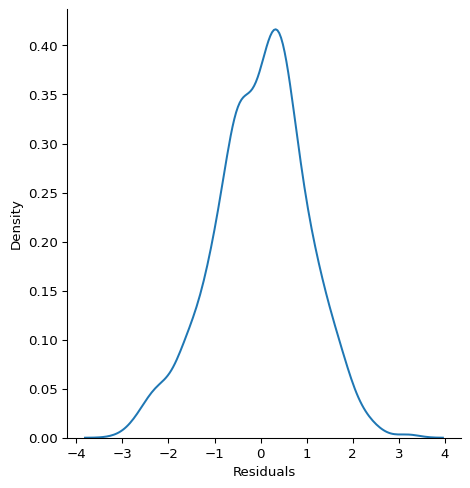
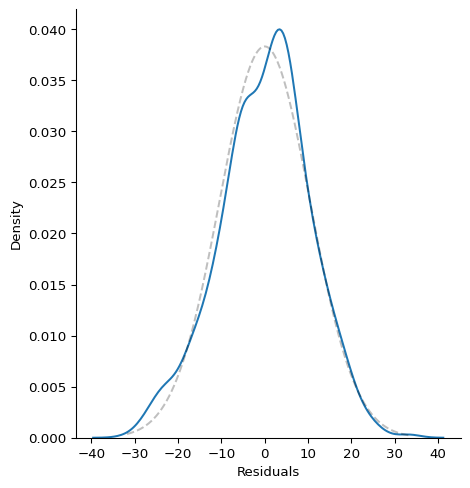
python trabalho

diff --git a/P6/python/trabalho/rekekssion/rekekssion.py b/P6/python/trabalho/rekekssion/rekekssion.py
@@ -12,7 +12,7 @@ class Rekekssion:
         n, p,
         Y, X, C, H, B, R, P,
     ):
-        self.intercept = intercept,
+        self.intercept = intercept
         self.y = y # y name
         self.x = x # x names
         self.n = n # nº rows
@@ -27,8 +27,7 @@ class Rekekssion:
 
     def __repr__(self):
         eq = f"{self.y} = {self.B[0]:.3}"
-        # intercept is somehow a tuple
-        if not self.intercept[0]:
+        if not self.intercept:
             eq += f" {self.x[0]}"
         for i in range(len(self.B)):
             if i == 0:
@@ -112,18 +111,21 @@ class Rekekssion:
         print(
             f"\t{'':<{biggest_length}}",
             f"{'estimate':>10}",
-            f"{f'IC {50 * alpha}%':>10}",
-            f"{f'IC {100 - 50 * alpha}%':>10}",
+            f"{'std err':>10}",
+            f"{f'IC {50 * alpha:g}%':>10}",
+            f"{f'IC {100 - 50 * alpha:g}%':>10}",
             f"{'statistic':>10}",
             f"{'p-value':>10}",
             sep = "",
         )
+        stderr = numpy.sqrt(self._beta_var())
         ic = self._beta_ic(alpha)
         tstat = self._tstat()
         tpval = self._tpval()
         for i in range(len(self.B)):
             line = f"\t{self.x[i]:<{biggest_length}}"
             line += f"{self.B[i]:>10.3f}"
+            line += f"{stderr[i]:>10.3f}"
             line += f"{ic[0][i]:>10.3f}"
             line += f"{ic[1][i]:>10.3f}"
             line += f"{tstat[i]:>10.3f}"
@@ -142,7 +144,7 @@ class Rekekssion:
     def coefficients(self):
         return self.B
 
-    def fitted(self):
+    def estimated(self):
         return self.P
 
     def residuals(self, kind: str = "response"):
@@ -160,8 +162,7 @@ class Rekekssion:
 
     def predict(self, new_data: pandas.DataFrame):
         X = new_data.to_numpy()
-        # # intercept is somehow a tuple
-        if self.intercept[0]:
+        if self.intercept:
             X = numpy.insert(X, 0, 1, axis = 1)
         return X @ self.B
 
@@ -175,36 +176,58 @@ class Rekekssion:
         )
         return seaborn.relplot(x = x, y = r, linewidth = 0.1, **kwargs) \
             .set_axis_labels("Theoretical quantiles", "Residual quantiles") \
-            .ax.axline(xy1 = (0, 0), slope = 1, color = "#00000040")
+            .ax.axline(
+                xy1 = (0, 0), slope = 1,
+                color = "#00000040", dashes = (4, 2)
+            )
 
     def plot_normality(self, kind: str, **kwargs):
         r = self.residuals(kind)
-        return seaborn.displot(x = r, kind = "kde", **kwargs) \
+        seaborn.displot(x = r, kind = "kde", **kwargs) \
             .set_axis_labels("Residuals")
+        x = numpy.linspace(numpy.min(r), numpy.max(r), 1000)
+        y = scipy.stats.norm.pdf(
+            x,
+            loc = numpy.mean(r),
+            scale = numpy.sqrt(numpy.var(r))
+        )
+        seaborn.lineplot(x = x, y = y, color = "#00000040", linestyle = "--")
 
     def plot_linearity(self, **kwargs):
         return seaborn.relplot(x = self.Y, y = self.P, **kwargs) \
             .set_axis_labels("Observed values", "Estimated values") \
-            .ax.axline(xy1 = (0, 0), slope = 1, color = "#00000040")
+            .ax.axline(
+                xy1 = (0, 0), slope = 1,
+                color = "#00000040", dashes = (4, 2)
+            )
 
     def plot_homoscedasticity(self, kind: str, **kwargs):
         r = self.residuals(kind)
         return seaborn.relplot(x = self.P, y = r, **kwargs) \
             .set_axis_labels("Estimated values", "Residuals") \
-            .ax.axline(xy1 = (0, 0), slope = 0, color = "#00000040")
+            .ax.axline(
+                xy1 = (0, 0), slope = 0,
+                color = "#00000040", dashes = (4, 2)
+            )
 
     def plot_autocorrelation(self, kind: str, **kwargs):
         r = self.residuals(kind)
         return seaborn.relplot(x = range(self.n), y = r, **kwargs) \
             .set_axis_labels("Index", "Residuals") \
-            .ax.axline(xy1 = (0, 0), slope = 0, color = "#00000040")
+            .ax.axline(
+                xy1 = (0, 0), slope = 0,
+                color = "#00000040", dashes = (4, 2)
+            )
 
     def plot_detect_hat(self, **kwargs):
         h = numpy.diag(self.H)
         limit = 2 * self.p / self.n
         return seaborn.relplot(x = self.P, y = h, **kwargs) \
             .set_axis_labels("Estimated values", "Hat values") \
-            .ax.axline(xy1 = (0, limit), slope = 0, color = "#00000040")
+            .ax.axline(
+                xy1 = (0, limit), slope = 0,
+                color = "#00000040", dashes = (4, 2)
+            )
 
     def plot_detect_cook(self, **kwargs):
         h = numpy.diag(self.H)
@@ -213,9 +236,12 @@ class Rekekssion:
         limit = scipy.stats.f.ppf(0.5, self.p, self.n - self.p)
         return seaborn.relplot(x = self.P, y = cook, **kwargs) \
             .set_axis_labels("Estimated values", "Cook's distance") \
-            .ax.axline(xy1 = (0, limit), slope = 0, color = "#00000040")
+            .ax.axline(
+                xy1 = (0, limit), slope = 0,
+                color = "#00000040", dashes = (4, 2)
+            )
 
-    def plot(self, kind: str, **kwargs):
+    def plot(self, kind: str = "response", **kwargs):
         self.plot_qq(kind, **kwargs)
         self.plot_normality(kind, **kwargs)
         self.plot_linearity(**kwargs)
@@ -228,7 +254,7 @@ def fit(
     data: pandas.DataFrame,
     y: str,
     x: typing.List[str],
-    intercept: bool
+    intercept: bool = True,
 ) -> Rekekssion:
     Y = data[y].to_numpy()
     X = data[x].to_numpy()

diff --git a/P6/python/trabalho/README.md b/P6/python/trabalho/README.md
@@ -1,4 +1,20 @@
+# Rekekssion
 
+
+The linear regression package for the lazy:
+
+- create a linear model with `rekekssion.fit()`
+- get all the info you need with the `.summary()` method
+- plot model suppositions and diagnostics with `.plot()`:
+  - **normality**: residual’s qq and density plots
+  - **linearity**: observed vs estimated values
+  - **homoscedasticity**: estimated values vs residuals
+  - **autocorrelation**: index vs residuals
+  - **leverage**: estimated values vs hat values
+  - **influence**: estimated values vs cook’s distance
+- extract specific info with `.coefficients()`, `.estimated()`
+  `.residuals()` if you’re into that
+- evaluate new data with `.predict()`
 
 ``` python
 import rekekssion
@@ -10,19 +26,19 @@ model = rekekssion.fit(
     intercept = True,
 )
 
-model.summary()
+model.summary(alpha = 0.05)
 ```
 
     formula:
         compressive_strength = 34.8 + 0.11 cement - 0.255 water + 0.0924 blast_furnace_slag + 0.0796 fly_ash + 0.114 age
     coefficients:
-                            estimate   IC 2.5%  IC 97.5% statistic   p-value
-        (intercept)           34.826    27.581    42.071     9.433   1.3e-20
-        cement                 0.110     0.102     0.118    27.974  1.1e-128
-        water                 -0.255    -0.288    -0.222   -15.243  9.73e-48
-        blast_furnace_slag     0.092     0.083     0.101    20.361     6e-78
-        fly_ash                0.080     0.066     0.093    11.836  1.09e-30
-        age                    0.114     0.103     0.125    21.025  3.63e-82
+                            estimate   std err   IC 2.5%  IC 97.5% statistic   p-value
+        (intercept)           34.826     3.692    27.581    42.071     9.433   1.3e-20
+        cement                 0.110     0.004     0.102     0.118    27.974  1.1e-128
+        water                 -0.255     0.017    -0.288    -0.222   -15.243  9.73e-48
+        blast_furnace_slag     0.092     0.005     0.083     0.101    20.361     6e-78
+        fly_ash                0.080     0.007     0.066     0.093    11.836  1.09e-30
+        age                    0.114     0.005     0.103     0.125    21.025  3.63e-82
     metrics:
         R squared                   0.611
         adjusted R squared          0.609
@@ -34,8 +50,8 @@ model.summary()
 
 ``` python
 model.coefficients()
-model.fitted()
-model.residuals(kind = "response")
+model.estimated()
+model.residuals(kind = "studentized")
 
 import pandas
 new_data = pandas.DataFrame({
@@ -51,7 +67,7 @@ model.predict(new_data)
     array([33.76340553, 35.47366758, 38.89419169])
 
 ``` python
-model.plot(kind = "studentized")
+model.plot()
 ```
 
 ![](README_files/figure-commonmark/cell-4-output-1.png)
